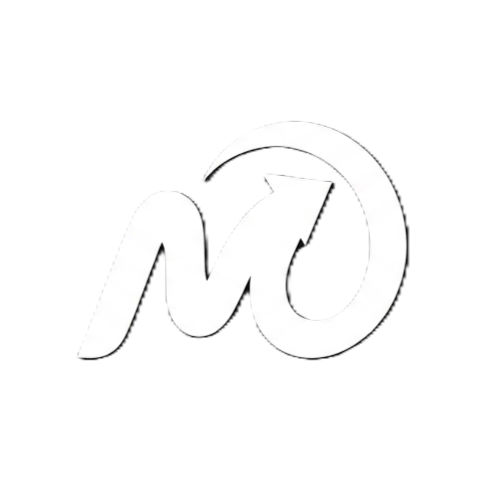
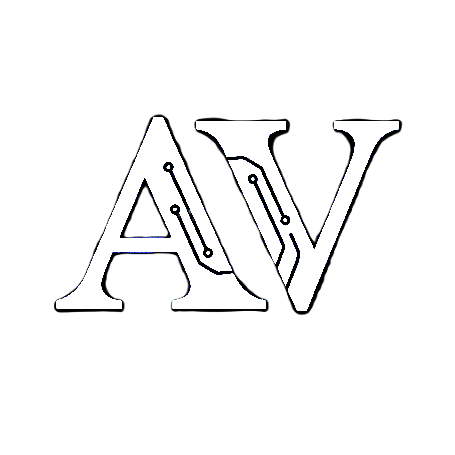
refactor: enhance firebase error handling and cleanup
- Implement `handleFirestoreError` and `OperationType` for improved error logging and auditing.
- Ensure proper cleanup of Firestore snapshot listeners during auth state transitions.
- Remove redundant card flip button from `VisaCard` component.

diff --git a/src/firebase.ts b/src/firebase.ts
@@ -64,3 +64,51 @@ export const signOutUser = async () => {
     throw error;
   }
 };
+
+export enum OperationType {
+  CREATE = 'create',
+  UPDATE = 'update',
+  DELETE = 'delete',
+  LIST = 'list',
+  GET = 'get',
+  WRITE = 'write',
+}
+
+export interface FirestoreErrorInfo {
+  error: string;
+  operationType: OperationType;
+  path: string | null;
+  authInfo: {
+    userId?: string | null;
+    email?: string | null;
+    emailVerified?: boolean | null;
+    isAnonymous?: boolean | null;
+    tenantId?: string | null;
+    providerInfo?: {
+      providerId?: string | null;
+      email?: string | null;
+    }[];
+  }
+}
+
+export function handleFirestoreError(error: unknown, operationType: OperationType, path: string | null) {
+  const errInfo: FirestoreErrorInfo = {
+    error: error instanceof Error ? error.message : String(error),
+    authInfo: {
+      userId: auth.currentUser?.uid,
+      email: auth.currentUser?.email,
+      emailVerified: auth.currentUser?.emailVerified,
+      isAnonymous: auth.currentUser?.isAnonymous,
+      tenantId: auth.currentUser?.tenantId,
+      providerInfo: auth.currentUser?.providerData?.map(provider => ({
+        providerId: provider.providerId,
+        email: provider.email,
+      })) || []
+    },
+    operationType,
+    path
+  };
+  console.error('Firestore Error: ', JSON.stringify(errInfo));
+  throw new Error(JSON.stringify(errInfo));
+}
+

diff --git a/src/App.tsx b/src/App.tsx
@@ -9,7 +9,7 @@ import { Settings } from './components/Settings';
 import { Store } from './components/Store';
 import { CardUpgrade } from './components/CardUpgrade';
 import { cardLevels } from './cardLevels';
-import { auth, db, signOutUser } from './firebase';
+import { auth, db, signOutUser, handleFirestoreError, OperationType } from './firebase';
 import { onAuthStateChanged } from 'firebase/auth';
 import { doc, getDoc, setDoc, onSnapshot, collection, getDocs, updateDoc, query, where } from 'firebase/firestore';
 import { motion, AnimatePresence } from 'motion/react';
@@ -248,13 +248,21 @@ export default function App() {
   }, []);
 
   useEffect(() => {
+    let unsubSnapshot: (() => void) | null = null;
+
     const unsubscribe = onAuthStateChanged(auth, (u) => {
+      // Clean up previous snapshot listener
+      if (unsubSnapshot) {
+        unsubSnapshot();
+        unsubSnapshot = null;
+      }
+
       setFirebaseUser(u);
       if (u) {
         const userDocRef = doc(db, 'users', u.uid);
         
         // Use onSnapshot for real-time updates (balance, notifications, etc.)
-        const unsubSnapshot = onSnapshot(userDocRef, async (userSnap) => {
+        unsubSnapshot = onSnapshot(userDocRef, async (userSnap) => {
           if (userSnap.exists()) {
             const data = userSnap.data();
             if (!data.photoURL && u.photoURL) {
@@ -273,9 +281,10 @@ export default function App() {
         }, (err) => {
           console.error("Snapshot error:", err);
           setLoading(false);
+          if (err.code === 'permission-denied') {
+            handleFirestoreError(err, OperationType.GET, `users/${u.uid}`);
+          }
         });
-
-        return () => unsubSnapshot();
       } else {
         setCurrentUser(null);
         setView('login');
@@ -283,7 +292,12 @@ export default function App() {
       }
     });
 
-    return () => unsubscribe();
+    return () => {
+      unsubscribe();
+      if (unsubSnapshot) {
+        unsubSnapshot();
+      }
+    };
   }, []);
 
   const handleProfileComplete = async (profileData: any) => {

diff --git a/src/components/VisaCard.tsx b/src/components/VisaCard.tsx
@@ -253,16 +253,6 @@ export function VisaCard({ user, theme }: VisaCardProps) {
                   </div>
 
                   <div className="flex items-start gap-4">
-                    <button
-                      onClick={(e) => {
-                        e.stopPropagation();
-                        setIsFlipped(true);
-                      }}
-                      className="p-1.5 bg-white/10 hover:bg-white/20 transition-colors rounded-full text-white/80 backdrop-blur-md border border-white/10 active:scale-95"
-                      title={t.flipCard}
-                    >
-                      <RotateCcw className="w-4 h-4" />
-                    </button>
                     <div className="flex flex-col items-end">
                       <div
                         className={`text-right italic font-black text-2xl sm:text-3xl tracking-tighter ${levelConfig.textColor.includes("slate") ? "text-slate-900" : "text-white"}`}